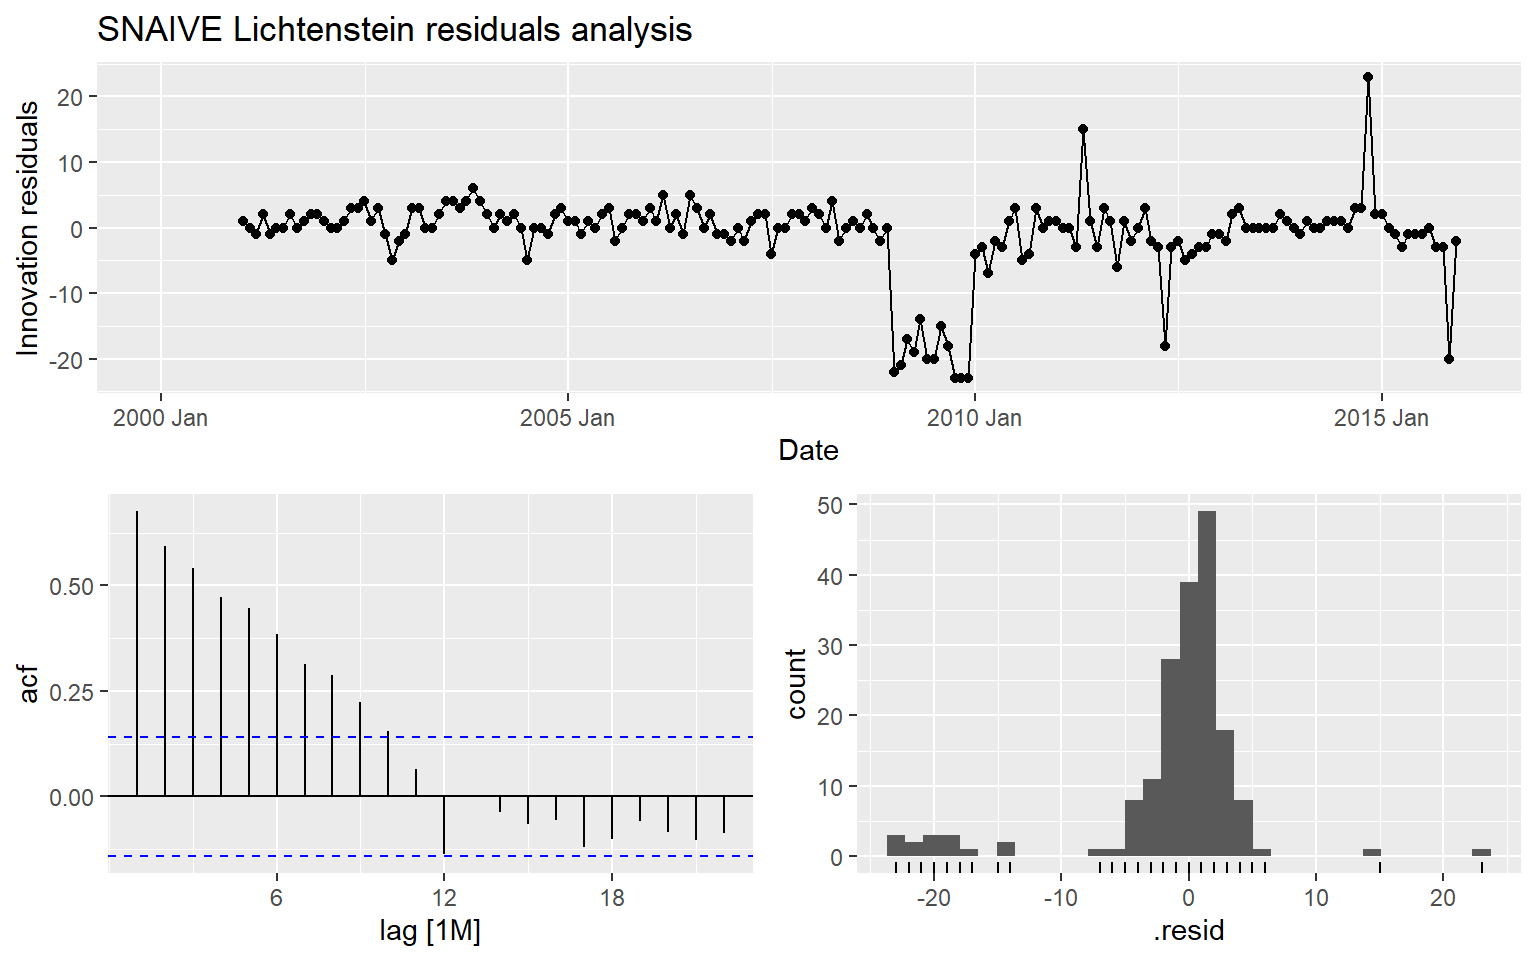
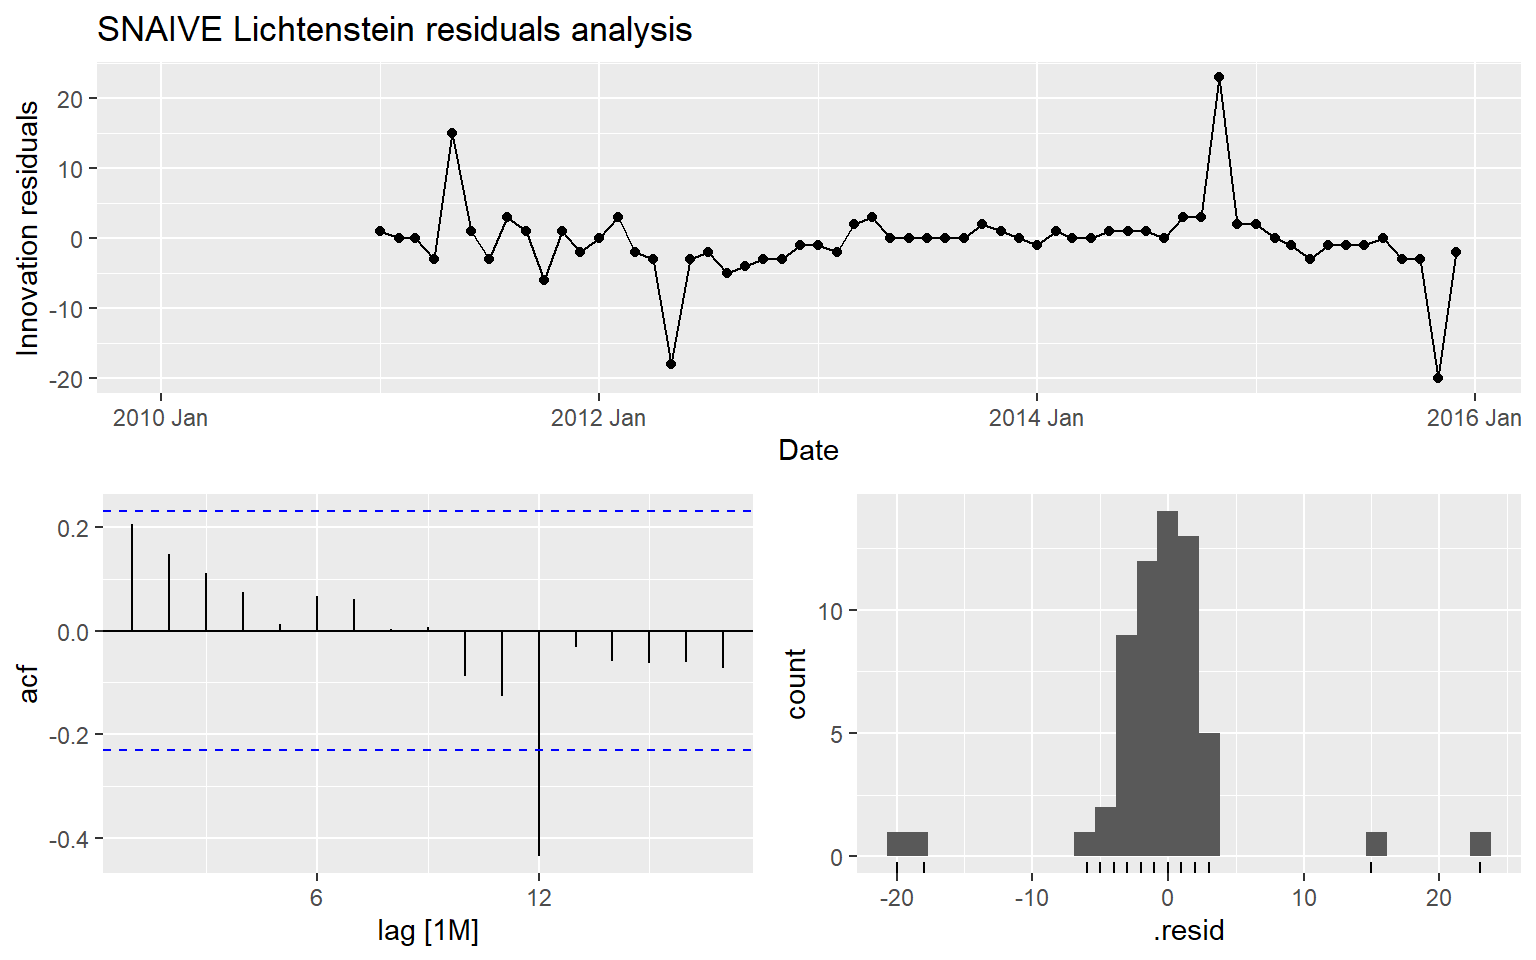
Random changes lichtenstein

diff --git a/main.html b/main.html
@@ -292,27 +292,10 @@ Khryst Amina Ivan
 <div id="main">
 <div id="things-that-need-to-be-done" class="section level1">
 <h1>THINGS THAT NEED TO BE DONE</h1>
-<p>In general: - Add eda.rmd to appendix - Final Forecast Table: replace
-negative values with 0 - In the forecast we show only the final model
-chosen, why show lichtenstein 5.5.1 + 5.5.2?</p>
-<p>Unit root test: - Why is the unit root test showing stationarity? -
-Why in unit root take not all of the data? - Why convert to tsibble when
-it’s already a tsibble ?</p>
-<p>Country specific:</p>
 <ul>
-<li>Explore huge peak in Austria 2002 -&gt; is it an outlier</li>
-<li>Explain big drop in Lichtenstein + thought process behind piece-wise
-model (Done)</li>
-<li>Should add piece-wise ets if perform better 3.4: STL decomposition
-analysis :</li>
-<li>Germany</li>
-<li>France</li>
-<li>Italy</li>
-<li>Austria (Done)</li>
-<li>Lich (Done)</li>
-<li>Total</li>
+<li>In the forecast we show only the final model chosen, why show
+lichtenstein 5.5.1 + 5.5.2?</li>
 </ul>
-<p>3.5 Unit Root Test for Stationarity every countries (Done)</p>
 </div>
 <div id="introduction" class="section level1">
 <h1>1. Introduction</h1>
@@ -523,8 +506,14 @@ alternative hypotheses for this statistical test:</p>
 root\ (non\ stationary)\\ H_1: The\ time\ series\ is\
 stationary\]</span></p>
 <p>After doing the test for all countries, we found that all of the time
-series are stationary at a significance level of:
-<code>alpha = 0.05</code>.</p>
+series (except Lichtenstein) are stationary at a significance level of:
+<code>alpha = 0.05</code>. This is against our initial assumption that
+the data is non-stationary, which was based on the fact that we saw a
+clear trend and seasonality for many of the countries. When the data is
+stationary, any model can be used (stationarity in the data is one of
+the assumptions for NAIVE and ETS models). However for Lichtenstein,
+since the p-value is larger than our significance level of 5%, we have
+to difference or log the Lichtenstein data before using some models.</p>
 <div id="germany-1" class="section level3">
 <h3><strong>Germany</strong></h3>
 <p>The test statistic was -6.0768. The p-value of the test was 0.01,
@@ -538,7 +527,7 @@ stationary time series.</p>
 ##  Augmented Dickey-Fuller Test
 ## 
 ## data:  ts_g
-## Dickey-Fuller = -6.0768, Lag order = 5, p-value = 0.01
+## Dickey-Fuller = -6.3865, Lag order = 6, p-value = 0.01
 ## alternative hypothesis: stationary</code></pre>
 </div>
 <div id="france-1" class="section level3">
@@ -551,7 +540,7 @@ stationary time series.</p>
 ##  Augmented Dickey-Fuller Test
 ## 
 ## data:  ts_F
-## Dickey-Fuller = -4.6123, Lag order = 5, p-value = 0.01
+## Dickey-Fuller = -5.671, Lag order = 6, p-value = 0.01
 ## alternative hypothesis: stationary</code></pre>
 </div>
 <div id="italy-1" class="section level3">
@@ -562,7 +551,7 @@ Italy data is a stationary time series.</p>
 ##  Augmented Dickey-Fuller Test
 ## 
 ## data:  ts_I
-## Dickey-Fuller = -6.8897, Lag order = 5, p-value = 0.01
+## Dickey-Fuller = -6.1852, Lag order = 6, p-value = 0.01
 ## alternative hypothesis: stationary</code></pre>
 </div>
 <div id="austria-1" class="section level3">
@@ -575,7 +564,7 @@ stationary time series.</p>
 ##  Augmented Dickey-Fuller Test
 ## 
 ## data:  ts_A
-## Dickey-Fuller = -3.7273, Lag order = 5, p-value = 0.02443
+## Dickey-Fuller = -3.6792, Lag order = 6, p-value = 0.02595
 ## alternative hypothesis: stationary</code></pre>
 </div>
 <div id="lichtenstein-1" class="section level3">
@@ -586,7 +575,7 @@ Lichtenstein data is a stationary time series.</p>
 ##  Augmented Dickey-Fuller Test
 ## 
 ## data:  ts_Lich
-## Dickey-Fuller = -6.5052, Lag order = 5, p-value = 0.01
+## Dickey-Fuller = -3.0063, Lag order = 6, p-value = 0.1521
 ## alternative hypothesis: stationary</code></pre>
 </div>
 <div id="total-1" class="section level3">
@@ -597,7 +586,7 @@ Lichtenstein data is a stationary time series.</p>
 ##  Augmented Dickey-Fuller Test
 ## 
 ## data:  ts_Tot
-## Dickey-Fuller = -4.0009, Lag order = 5, p-value = 0.01103
+## Dickey-Fuller = -4.8658, Lag order = 6, p-value = 0.01
 ## alternative hypothesis: stationary</code></pre>
 </div>
 </div>
@@ -1590,13 +1579,20 @@ noise.</p>
 60-period prediction starting from 2016. This code fits different models
 to the training data, generates forecasts, and then applies a constraint
 to the forecasted mean values to ensure they are not negative. Based on
-the previous analysis Lichtenstein data is stationary time series with
-high presence of trend and seasonality, thus we can consider using
-following models to perform our analysis: simple ARIMA, ETS, S-naive and
-Piece-Wise. A Piece-Wise ARIMA approach could be useful when the ts
-shows different behaviors over different periods. Indeed, we can observe
-four knots which exhibits different pattern in 2008, 2009,2015 and 2016.
-We have selected those date as knots and will observe the result.</p>
+the previous analysis Lichtenstein data is NON stationary time series,
+so we had to difference or log the data to make it stationary before
+using our models. In addition to using ETS, ARIMA and SNAIVE, in the
+Lichtenstein case, a Piece-Wise ARIMA approach could be useful when the
+ts shows different behaviors in different periods. Indeed, we can
+observe four knots which exhibits different pattern in 2008, 2009,2015
+and 2016 (the trend changes at the time periods). We have selected those
+dates as knots and will observe the result.</p>
+<p>Another thing to mention about Lichtenstein, is that for the ETS,
+ARIMA and SNaive models, we decided to train them only after 2010. We
+made this decision because before 2010, the data was very different
+(upward trending at a much higher level) and thought that if the models
+looked at that period, they would probably not produce accurate
+results.</p>
 <p><img src="main_files/figure-html/unnamed-chunk-43-1.png" width="768" /></p>
 </div>
 <div id="measuring-model-accuracy-4" class="section level3">
@@ -1658,13 +1654,13 @@ ARIMA(Lichtenstein)
 Test
 </td>
 <td style="text-align:right;">
-0.201217
+-0.5633207
 </td>
-<td style="text-align:right;color: white !important;background-color: rgba(69, 55, 129, 1) !important;">
-4.003959
+<td style="text-align:right;color: white !important;background-color: rgba(67, 62, 133, 1) !important;">
+4.056928
 </td>
-<td style="text-align:right;color: white !important;background-color: rgba(38, 130, 142, 1) !important;">
-3.025938
+<td style="text-align:right;color: white !important;background-color: rgba(32, 146, 140, 1) !important;">
+3.232013
 </td>
 <td style="text-align:right;">
 -Inf
@@ -1679,7 +1675,7 @@ NaN
 NaN
 </td>
 <td style="text-align:right;">
-0.4719691
+0.4889277
 </td>
 </tr>
 <tr>
@@ -1690,16 +1686,16 @@ ETS(Lichtenstein)
 Test
 </td>
 <td style="text-align:right;">
-1.458273
+-0.6212997
 </td>
-<td style="text-align:right;color: white !important;background-color: rgba(66, 65, 134, 1) !important;">
-4.088135
+<td style="text-align:right;color: white !important;background-color: rgba(64, 70, 136, 1) !important;">
+4.120870
 </td>
-<td style="text-align:right;color: white !important;background-color: rgba(66, 65, 134, 1) !important;">
-2.171460
+<td style="text-align:right;color: white !important;background-color: rgba(31, 154, 138, 1) !important;">
+3.347994
 </td>
 <td style="text-align:right;">
-NaN
+-Inf
 </td>
 <td style="text-align:right;">
 Inf
@@ -1711,7 +1707,7 @@ NaN
 NaN
 </td>
 <td style="text-align:right;">
-0.4446274
+0.4949072
 </td>
 </tr>
 <tr>
@@ -1722,7 +1718,7 @@ SNAIVE(Lichtenstein)
 Test
 </td>
 <td style="text-align:right;">
-0.600000
+0.6000000
 </td>
 <td style="text-align:right;color: white !important;background-color: rgba(68, 1, 84, 1) !important;">
 3.623994
@@ -1754,7 +1750,7 @@ piecewise
 Test
 </td>
 <td style="text-align:right;">
-3.347704
+3.3477041
 </td>
 <td style="text-align:right;color: white !important;background-color: rgba(34, 168, 132, 1) !important;">
 5.070438
@@ -1782,21 +1778,18 @@ NaN
 </table>
 <div class="sourceCode" id="cb60"><pre class="sourceCode r"><code class="sourceCode r"><span id="cb60-1"><a href="#cb60-1" tabindex="-1"></a><span class="fu">report</span>(data_fit_Licht_e)</span></code></pre></div>
 <pre><code>## Series: Lichtenstein 
-## Model: ETS(A,N,A) 
+## Model: ETS(A,N,N) 
 ##   Smoothing parameters:
-##     alpha = 0.4983791 
-##     gamma = 0.0001000103 
+##     alpha = 0.000100061 
 ## 
 ##   Initial states:
-##     l[0]     s[0]    s[-1]    s[-2]     s[-3]     s[-4]     s[-5]     s[-6]
-##  19.2404 2.656075 3.881139 1.299069 -1.182925 -2.807692 -3.167366 -4.389907
-##      s[-7]     s[-8]    s[-9]   s[-10]  s[-11]
-##  -3.179325 -1.468588 2.114574 2.867806 3.37714
+##      l[0]
+##  3.887968
 ## 
-##   sigma^2:  11.0411
+##   sigma^2:  17.9891
 ## 
 ##      AIC     AICc      BIC 
-## 1486.015 1488.742 1534.878</code></pre>
+## 519.9548 520.3077 526.7848</code></pre>
 <div class="sourceCode" id="cb62"><pre class="sourceCode r"><code class="sourceCode r"><span id="cb62-1"><a href="#cb62-1" tabindex="-1"></a><span class="co">#report(data_fit_Licht_n)</span></span></code></pre></div>
 </div>
 <div id="residuals-4" class="section level3">
@@ -2054,8 +2047,8 @@ noise.</p>
 Still, our goal is to obtain the most accurate forecast. Therefore, we
 give more weight to RMSE and MAE metrics than AIC. As a result, the
 ARIMA model is selected to forecast the electricity demand in Italy and
-ETS model is selected to forecast in Germany, Austria and France.
-Finally, Snaive is selected to forecast in Lichtenstein.</p>
+the Total, and ETS model is selected to forecast in Germany, Austria and
+France. Finally, S-Naive is selected to forecast in Lichtenstein.</p>
 </div>
 </div>
 <div id="forecast" class="section level1">
@@ -2065,8 +2058,6 @@ with the lowest RMSE as shown in the previous section. This is because
 we want our models to be as “accurate” as possible, in away that
 minimizes the error/distance between our forecast values and the actual
 values.</p>
-<div id="side-note" class="section level4">
-<h4>Side note:</h4>
 <p>Below, for each country, you can see a residual analysis for every
 selected model, a graph of the forecast, and finally the forecast table.
 The outcome of the residual analysis is to confirm that the model has
@@ -2085,7 +2076,6 @@ constant.</li>
 <p>In essence, what this all means, is that the residuals are white
 noise. Let’s now look at the results for each country, and make some
 more specific comments:</p>
-</div>
 <div id="germany-3" class="section level2 tabset">
 <h2 class="tabset">5.1 Germany</h2>
 <p>We fit Germany electricity demand data using the ETS model.</p>
